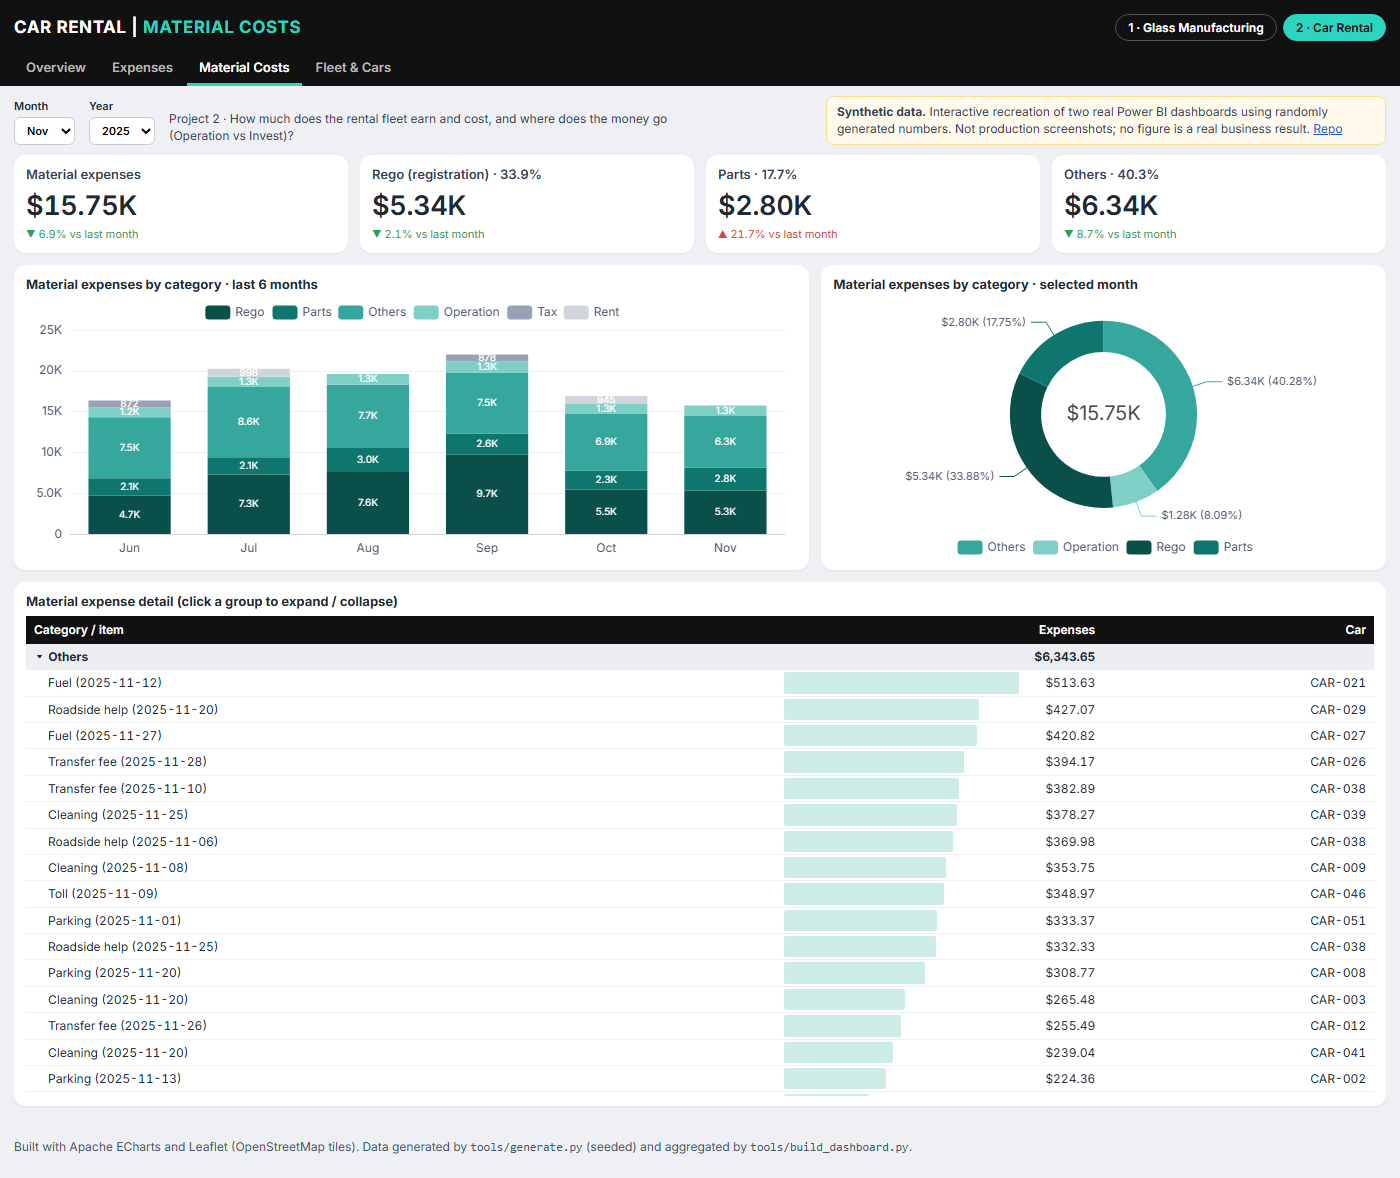
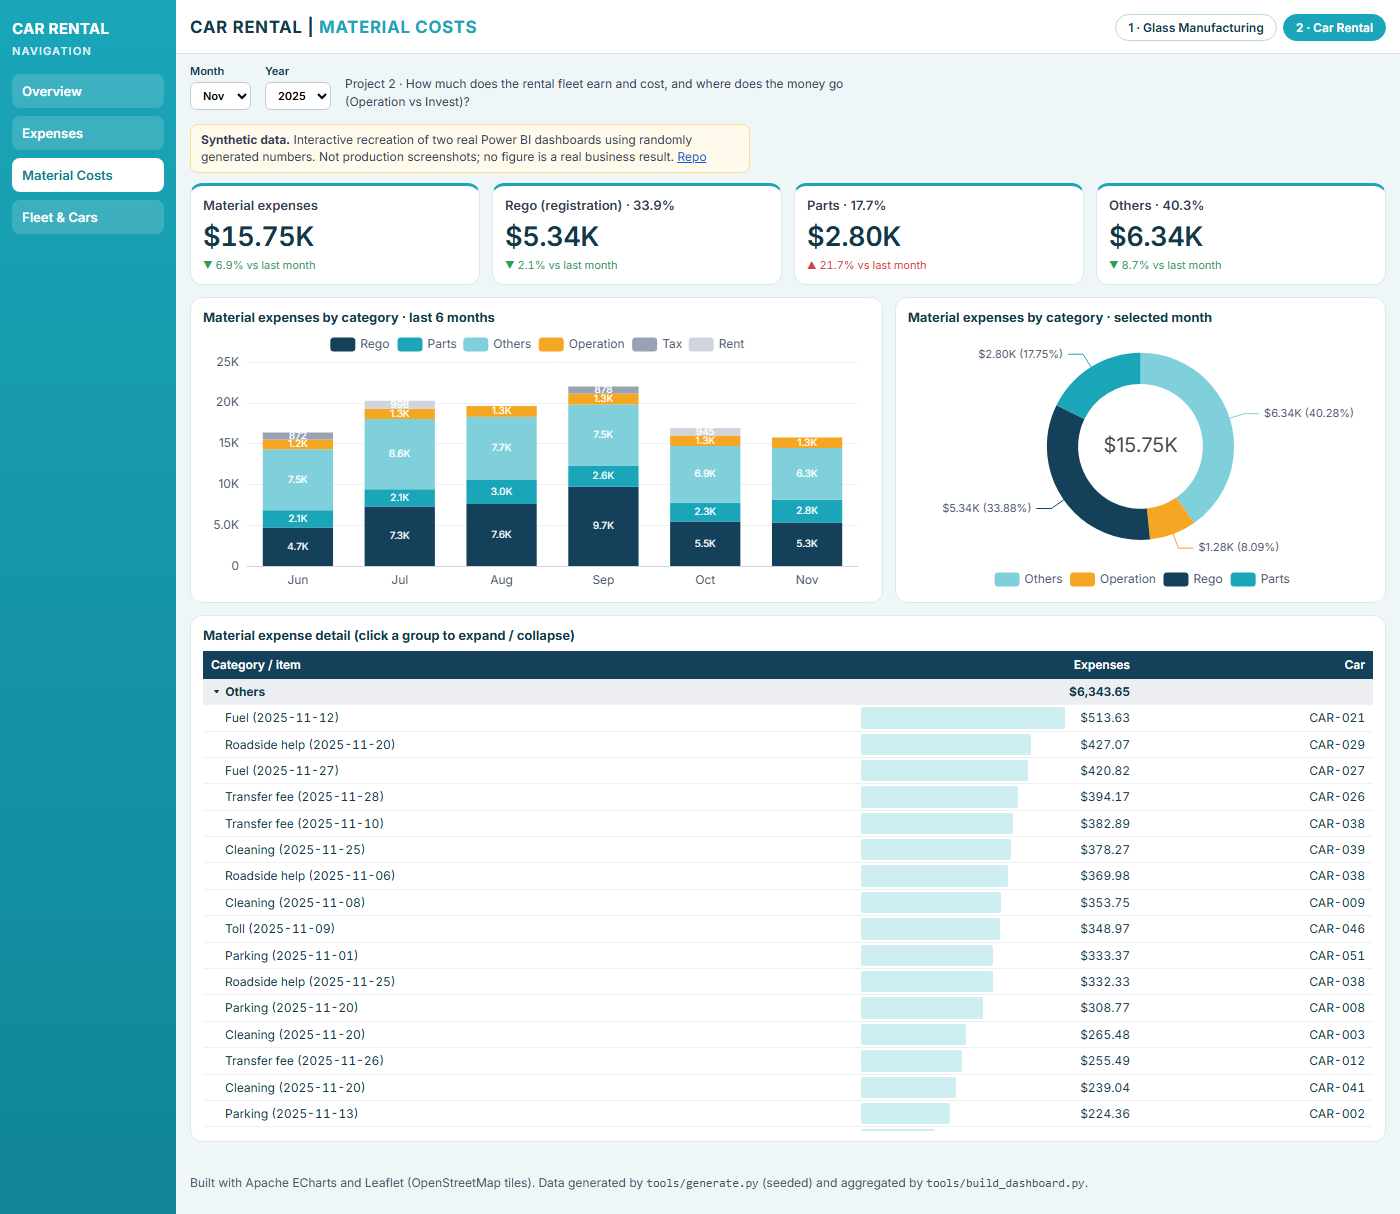
Car rental dashboard: light BI theme with teal navigation panel, cyan/navy/amber palette

diff --git a/docs/index.html b/docs/index.html
@@ -12,7 +12,23 @@
 <style>
   /* Color system: one accent per project, neutral greys, green/red only for good/bad */
   :root{--ink:#1f2933;--muted:#667085;--line:#e4e7ec;--card:#fff;--accent:#e8590c;--page:#eef0f3;--good:#2e9e5b;--bad:#d64545}
-  body.t-fleet{--accent:#2dd4bf}
+  /* Project 2 theme: light page, teal navigation panel, cyan + navy + amber (modern BI dashboard look) */
+  body.t-fleet{--accent:#1aa5b8;--page:#eef6f8;--ink:#12384a}
+  body.t-fleet .top{background:#fff;color:#12384a;border-bottom:1px solid #d5e6eb;padding-bottom:12px}
+  body.t-fleet .proj button{background:#fff;color:#12384a;border-color:#b9d6dd}
+  body.t-fleet .proj button[aria-selected="true"]{background:#1aa5b8;border-color:#1aa5b8;color:#fff}
+  body.t-fleet .tabs{display:none}
+  body.t-fleet .top,body.t-fleet .bar,body.t-fleet .wrap,body.t-fleet footer{margin-left:176px}
+  body.t-fleet .card{border:1px solid #dbe9ee;box-shadow:none}
+  body.t-fleet .kpi{border-top:3px solid #1aa5b8}
+  body.t-fleet th{background:#14405a}
+  .side{display:none}
+  body.t-fleet .side{display:block;position:fixed;left:0;top:0;bottom:0;width:176px;background:linear-gradient(180deg,#1aa5b8,#0e7e8f);color:#fff;padding:18px 12px;z-index:5}
+  .side .brand{font-weight:700;font-size:15px;letter-spacing:.3px;margin-bottom:4px}
+  .side h3{margin:0 0 14px;font-size:11px;letter-spacing:.1em;text-transform:uppercase;opacity:.85;font-weight:600}
+  .side button{display:block;width:100%;text-align:left;margin-bottom:8px;padding:9px 10px;border:0;border-radius:8px;background:rgba(255,255,255,.16);color:#fff;font-weight:600;font-size:13px;cursor:pointer}
+  .side button[aria-selected="true"]{background:#fff;color:#0e7e8f}
+  @media (max-width:900px){body.t-fleet .side{position:static;width:auto}body.t-fleet .top,body.t-fleet .bar,body.t-fleet .wrap,body.t-fleet footer{margin-left:0}}
   *{box-sizing:border-box}
   body{margin:0;min-height:100vh;background:var(--page);color:var(--ink);font-family:"Inter","Segoe UI",system-ui,-apple-system,Roboto,sans-serif;font-size:13px;line-height:1.45;font-feature-settings:"cv11","ss01";-webkit-font-smoothing:antialiased}
   button,select,input{font-family:inherit}
@@ -62,6 +78,7 @@
 </style>
 </head>
 <body class="t-mfg">
+<nav class="side" id="side" aria-label="Pages"></nav>
 <div class="top">
   <div class="row1">
     <h1 id="title">GLASS MANUFACTURING PERFORMANCE | <b>OVERVIEW</b></h1>
@@ -300,8 +317,8 @@ window.BI={D:window.DATA,T:T,MN:MN,$:$,pad:pad,dim:dim,dk:dk,mo:mo,sum:sum,usd:u
 (function(){
 "use strict";
 var B=window.BI,D=B.D,T=B.T,MN=B.MN,$=B.$,dim=B.dim,mo=B.mo,sum=B.sum,usd=B.usd,kk=B.kk,dlt=B.dlt,dayArr=B.dayArr,add=B.add,ch=B.ch,opt=B.opt,AX=B.AX,xcat=B.xcat,yval=B.yval,GR=B.GR,kpi=B.kpi,tbl=B.tbl,donut=B.donut,stacked=B.stacked,charts=B.charts;
-/* teal accent system: sales = teal, expenses = ink */
-var ACC="#0f766e",MID="#5fb7ae",TINT="#cdebe7",INK=T.ink,GRAY=T.gray,AMBER="#f59e0b";
+/* cyan-teal accent system: sales = cyan, expenses = navy, amber for highlights */
+var ACC="#1aa5b8",MID="#7fd0db",TINT="#cfeef2",INK="#14405a",GRAY=T.gray,AMBER="#f5a623";
 function pc(x){return (x*100).toFixed(1)+"%";}
 function f2(v){return usd(v,true);}
 function days(m){var a=[];for(var d=1;d<=dim(m);d++)a.push(d);return a;}
@@ -316,9 +333,9 @@ C.exp.forEach(function(r){var m=mo(r[0]);add(CEX,r[0],r[5]);add(CG[m],r[1],r[5])
 C.events.forEach(function(r){var m=mo(r[0]);CEVM[m]=CEVM[m]||[0,0];CEVM[m][0]+=r[1];CEVM[m][1]+=r[2];});
 function cMonth(m){var s=dayArr(CRV,m),e=dayArr(CEX,m),p=s.map(function(x,i){return x-e[i];});return {s:s,e:e,p:p,r:dayArr(CRT,m),S:sum(s),E:sum(e),P:sum(p)};}
 function ctot(m){var s=0;for(var k in CG[m])s+=CG[m][k];return s;}
-var GCOL={HR:INK,Material:ACC,MKT:MID,Office:GRAY},GORD=["HR","Material","MKT","Office"];
+var GCOL={HR:INK,Material:ACC,MKT:AMBER,Office:GRAY},GORD=["HR","Material","MKT","Office"];
 var TCOL={Operation:INK,Invest:ACC};
-var MCOL={Rego:"#0b4f4a",Parts:ACC,Others:"#35a79d",Operation:"#7fcfc7",Tax:GRAY,Rent:T.gray2};
+var MCOL={Rego:INK,Parts:ACC,Others:MID,Operation:AMBER,Tax:GRAY,Rent:T.gray2};
 var SCOL={Active:T.good,RTO:"#7cc79a",Holding:"#f2b84b",Fixing:"#e08a3c",Sold:GRAY,Lost:T.bad,Inactive:T.gray2};
 var rentable=C.cars.filter(function(c){return c[3]==="Active"||c[3]==="RTO";}).length;
 
@@ -342,7 +359,7 @@ function renderOver(m){
     series:[{name:"Total sales",type:"bar",data:sv},{name:"Total expenses",type:"bar",data:ev},{name:"Profit margin %",type:"line",yAxisIndex:1,smooth:true,data:mg,label:{show:true,formatter:"{c}%",fontSize:10}}]});
   var g=CG[m],opx=(CITEMS[m]||[]).filter(function(r){return r[6]==="Operation";}).reduce(function(a,r){return a+r[5];},0);
   var rows=[["Revenue",c.S],["HR",g.HR||0],["Material",g.Material||0],["  of which Operation",opx],["Marketing",g.MKT||0],["Office",g.Office||0],["Profit",c.P]];
-  $("c-summary").innerHTML=tbl([{t:"Item"},{t:"Amount",bar:"#e3f3f1",f:f2}],rows.map(function(r){return {v:r,bc:r[0]==="Revenue"?T.goodTint:r[0]==="Profit"?"#9ed5ce":null};}));
+  $("c-summary").innerHTML=tbl([{t:"Item"},{t:"Amount",bar:"#e1f3f6",f:f2}],rows.map(function(r){return {v:r,bc:r[0]==="Revenue"?T.goodTint:r[0]==="Profit"?"#8fd6e0":null};}));
   // debt chart
   var ob=[],pp=[];for(var k=0;k<12;k++){ob.push(Math.round(C.debt[k][1]));pp.push(Math.round(C.debt[k][2]*100));}
   opt("c-debt",{tooltip:{trigger:"axis"},legend:{top:0},color:[MID,INK],grid:{left:48,right:44,top:30,bottom:26},xAxis:xcat(MN),
@@ -442,6 +459,8 @@ function show(p){
   Object.keys(PAGE).forEach(function(k){$(k).hidden=k!==p;});
   document.body.className=proj==="fleet"?"t-fleet":"t-mfg";
   $("title").innerHTML=PAGE[p][2];$("purpose").textContent=PROJ[proj].purpose;
+  $("side").innerHTML='<div class="brand">CAR RENTAL</div><h3>Navigation</h3>'+(proj==="fleet"?PROJ.fleet.pages.map(function(x){return '<button data-p="'+x[0]+'" aria-selected="'+(x[0]===p)+'">'+x[1]+"</button>";}).join(""):"");
+  Array.prototype.forEach.call($("side").querySelectorAll("button"),function(b){b.onclick=function(){show(b.getAttribute("data-p"));};});
   $("tabs").innerHTML=PROJ[proj].pages.map(function(x){return '<button data-p="'+x[0]+'" aria-selected="'+(x[0]===p)+'">'+x[1]+"</button>";}).join("");
   Array.prototype.forEach.call($("tabs").querySelectorAll("button"),function(b){b.onclick=function(){show(b.getAttribute("data-p"));};});
   Array.prototype.forEach.call(document.querySelectorAll(".proj button"),function(b){b.setAttribute("aria-selected",b.getAttribute("data-proj")===proj);});

diff --git a/projects/car-rental-overview-powerbi/README.md b/projects/car-rental-overview-powerbi/README.md
@@ -18,9 +18,10 @@ The report is split into four pages so that each page answers one question:
 | **4 · Fleet & Cars** | Which cars earn their keep? | Fleet by status (Active, RTO, Holding, Fixing, Sold, Lost, Inactive) · top cars by profit · new rentals vs returns by month · sortable per-car table with revenue, material expenses and profit |
 
 ## Design system (why the colors are limited)
-- **One accent color** (teal) for sales and the key measure; expenses are **ink** so income and cost are always distinguishable at a glance.
+- **Modern BI look:** light page, a **teal navigation panel** on the left (one button per page), white cards and KPI cards with a colored top edge.
+- **A small, fixed palette:** cyan = sales and the key measure, navy = expenses (so income and cost are distinguishable at a glance), amber = highlights (profit margin line, marketing, operation costs), grey = context.
 - **Green and red mean good and bad only**, plus car status where the meaning is natural (green = earning, amber = temporarily not earning, grey = gone, red = lost).
-- Expense groups, Operation vs Invest and material categories use **fixed colors** (teal tints for material categories), the same on every page.
+- Expense groups, Operation vs Invest and material categories use **fixed colors**, the same on every page.
 - Layout: overview first, then one drill-down page per question; the same Month slicer and previous-month comparison on every page; KPI cards that show value, trend and change together; expandable detail table instead of an endless list.
 
 ## Data model

diff --git a/README.md b/README.md
@@ -33,7 +33,7 @@ Manufacturing business selling Premium and Luxury glass products in Sydney (AUD)
 Car rental operation in Sydney (AUD), answering *how much does the fleet earn and cost, and where does the money go?* It is split into **4 pages**: Overview · Expenses (Operation vs Invest) · Material Costs · Fleet & Cars.
 **Tools:** Power BI, DAX, Power Query · **Model:** 60 cars (47 rentable), daily rentals, dated expenses by group and category.
 **What the sample report shows** (synthetic, Nov 2025): sales **A$27.6K** (-9.7% MoM), profit margin **24.2%**, material costs **75%** of expenses, **33 of 47** rentable cars on rent at month end, **85%** of customers paid.
-**Design:** one teal accent with expenses in ink, Operation vs Invest split kept on every expense view, expandable expense detail table, status colors with a natural meaning.
+**Design:** light page with a teal navigation panel, cyan for sales, navy for expenses, amber for highlights, Operation vs Invest split kept on every expense view, expandable expense detail table, status colors with a natural meaning.
 
 [![Overview](projects/car-rental-overview-powerbi/images/01-overview.png)](projects/car-rental-overview-powerbi/images/01-overview.png)
 [![Expenses](projects/car-rental-overview-powerbi/images/02-expenses.png)](projects/car-rental-overview-powerbi/images/02-expenses.png)
